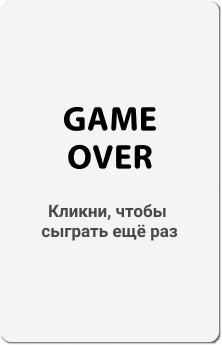
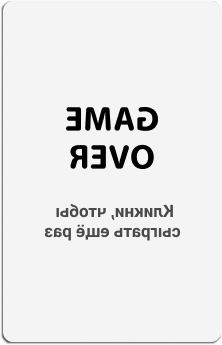
add card rotate

diff --git a/css/style.css b/css/style.css
@@ -19,7 +19,7 @@ body{
   border-radius: 7px;
 }
 #game-container{
-  width: 700px;
+  /* width: 700px; */
   display: flex;
   justify-content: space-around;
   flex-direction: row;
@@ -30,11 +30,17 @@ body{
   background-image: url(../img/card-top.jpg);
   box-shadow: 1px 1px 2px rgba(0, 0, 0, 0.7);
   border-radius: 7px;
-  transition: background .3s ease;
+  transition: transform .5s ease;
 }
 .card_inside{
+  transform: rotateY(180deg);
   background-image: url(../img/end.jpg);
 }
 .card_bug{
+  transform: rotateY(180deg);
   background-image: url(../img/bug.jpg);
 }
+.noclick{
+  pointer-events: none
+}
+

diff --git a/main.js b/main.js
@@ -31,13 +31,13 @@ function createTable(diff) {
   for(let i = 0; i < diff; i++) {
     const card = document.createElement('div')
     card.classList.add('card_top')
-    //card.innerHTML = `карта ${i}`
     gameContainer.appendChild(card, gameContainer)
   }
 }
 
 function resetTable() {
   gameMenu.classList.remove('hide')
+  
   while(gameContainer.firstChild) {
     gameContainer.removeChild(gameContainer.firstChild);
   }
